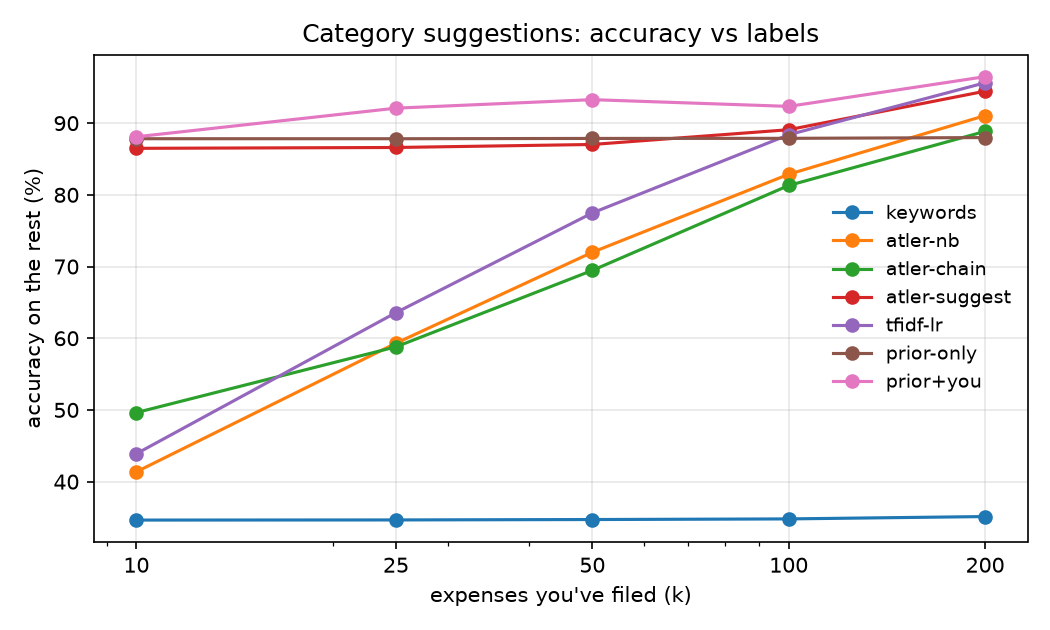
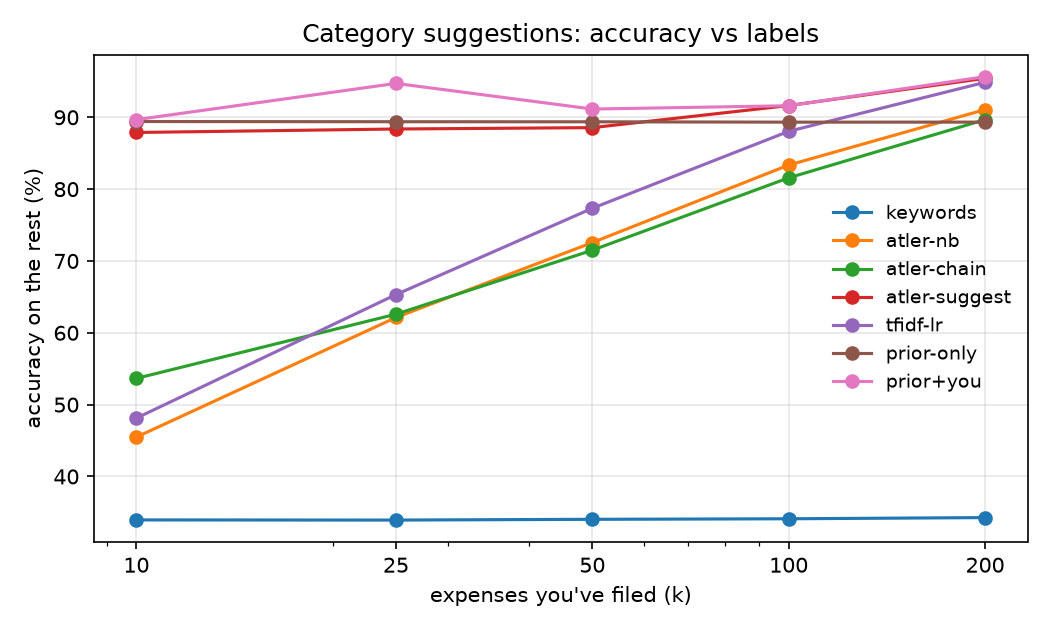
Generator v2 (per-merchant spread); simulate asking sooner and reviewing past jumps
- synth: each merchant has its own spread (steady fares and fees, erratic
  marketplaces); results/ re-measured
- feedback.py: the first 3 months arrive as an imported statement, then the
  review of past jumps (ATLER#32) and live alerts; answer rates 50/70/90%
- README: v2 numbers, and what didn't help (a per-user model with more
  signals; variance-aware gates)

diff --git a/bridge/atler.ts b/bridge/atler.ts
@@ -27,7 +27,7 @@ type Job =
   | { task: 'candidates'; debits: { on: string; description: string; amount: number }[]; today: string }
   | { task: 'suggest'; categories: string[]; filed: { name: string; category: string }[]; test: string[]; prior: boolean }
   | { task: 'priorProbabilities'; texts: string[] }
-  | { task: 'feedback'; payments: { id: string; name: string; amount: number; on: string; categoryId: string | null; anomaly: boolean }[]; answerRate: number; learn: boolean }
+  | { task: 'feedback'; payments: { id: string; name: string; amount: number; on: string; categoryId: string | null; anomaly: boolean }[]; answerRate: number; learn: boolean; reviewFrom?: string }
   | { task: 'features' }
   | { task: 'treeProbability'; x: number[][] }
   | { task: 'unusual'; payments: { id: string; name: string; amount: number; on: string; categoryId: string | null }[] };
@@ -71,7 +71,19 @@ function run(job: Job): unknown {
       const payments = job.payments.map(p => ({ ...p, source: 'statement' }));
       const verdicts: unknown[] = [];
       let bars = fb.learnBars([]);
+      // reviewFrom: everything before it is an imported statement. On that day
+      // you review its biggest past jumps (insights.pastJumps), then go live.
+      let reviewed = !job.reviewFrom;
       return payments.map((p, i) => {
+        if (job.reviewFrom && p.on < job.reviewFrom) return null;
+        if (!reviewed) {
+          reviewed = true;
+          const known = payments.slice(0, i);
+          for (const u of insights.pastJumps(known, p.on, verdicts)) {
+            verdicts.push({ paymentId: u.payment.id, merchant: insights.merchantOf(u.payment), times: u.times, expected: !u.payment.anomaly, at: i });
+          }
+          bars = fb.learnBars(verdicts);
+        }
         const u = insights.unusualness(p, payments.slice(0, i + 1), job.learn ? bars : undefined);
         if (!u) return null;
         if (random() < job.answerRate) {

diff --git a/src/atler_ml/synth.py b/src/atler_ml/synth.py
@@ -1,4 +1,4 @@
-"""Synthetic Indian bank statements with ground truth.
+"""Synthetic Indian bank statements with ground truth (v2: per-merchant spread).
 
 ATLER keeps money on the phone and real statements are private, so there is
 no labelled dataset to learn from. This generator writes statements that look
@@ -60,6 +60,18 @@ EVERYDAY: list[tuple[list[str], str, float]] = [
     (["SRM IST FEES", "SRM INSTITUTE"], "Education", 2500),
     (["XEROX POINT", "SRI LAKSHMI XEROX"], "Education", 40),
 ]
+
+# How much a merchant's amounts vary (sigma of log amount). Fixed fares and
+# fees barely move; marketplaces and train tickets swing a lot. Everything
+# else, 0.45. (Before v2 every merchant used 0.45, which hid the difference
+# between "6x at the metro" and "6x at Amazon".)
+SPREAD = {
+    "CHENNAI METRO RAIL": 0.12, "SRM IST FEES": 0.08, "XEROX POINT": 0.2, "JAVA GREEN CANTEEN": 0.2,
+    "RAPIDO": 0.3, "TNEB": 0.3, "STARBUCKS": 0.25,
+    "AMAZON": 0.8, "FLIPKART": 0.8, "MYNTRA": 0.7, "DECATHLON": 0.7, "IRCTC": 0.75, "DMART": 0.6,
+    "BIGBASKET": 0.6, "INDIAN OIL": 0.5, "UBER": 0.5,
+}
+DEFAULT_SPREAD = 0.45
 
 # Subscriptions: (spellings, category, price in rupees, cycle in days or "month"/"year").
 SUBSCRIPTIONS: list[tuple[list[str], str, float, int | str]] = [
@@ -155,8 +167,8 @@ def narration(rng: random.Random, spelling: str, kind: str) -> str:
     raise ValueError(kind)
 
 
-def _amount(rng: random.Random, typical: float) -> int:
-    rupees = typical * rng.lognormvariate(0, 0.45)
+def _amount(rng: random.Random, typical: float, spread: float = DEFAULT_SPREAD) -> int:
+    rupees = typical * rng.lognormvariate(0, spread)
     rupees = round(rupees) if rng.random() < 0.7 else round(rupees, 2)
     return max(100, int(round(rupees * 100)))
 
@@ -216,7 +228,9 @@ def _rent(u: User) -> None:
 
 def _everyday(u: User) -> None:
     rng = u.rng
-    favourites = rng.sample(EVERYDAY, rng.randint(12, 22)) + _locals(rng)
+    locals_ = _locals(rng)
+    local_spread = {spellings[0]: rng.uniform(0.2, 0.5) for spellings, _, _ in locals_}
+    favourites = rng.sample(EVERYDAY, rng.randint(12, 22)) + locals_
     weights = [rng.paretovariate(1.2) for _ in favourites]  # a few places get most of your money
     friends = [f"{rng.choice(FIRST)} {rng.choice(LAST)}" for _ in range(rng.randint(3, 8))]
     rate = rng.uniform(1.2, 3.5)  # payments per day
@@ -226,12 +240,13 @@ def _everyday(u: User) -> None:
         for _ in range(_poisson(rng, rate * busy)):
             if rng.random() < 0.12:  # splitting a bill with a friend
                 who = rng.choice(friends)
-                u.txns.append(Txn(u.id, on, narration(rng, who, "upi"), _amount(rng, 250), who, "Transfers"))
+                u.txns.append(Txn(u.id, on, narration(rng, who, "upi"), _amount(rng, 250, 0.6), who, "Transfers"))
                 continue
             spellings, category, typical = rng.choices(favourites, weights)[0]
             spelling = rng.choice(spellings)
             kind = "upi" if rng.random() < 0.75 else "pos"
-            u.txns.append(Txn(u.id, on, narration(rng, spelling, kind), _amount(rng, typical), spellings[0], category))
+            spread = SPREAD.get(spellings[0], local_spread.get(spellings[0], DEFAULT_SPREAD))
+            u.txns.append(Txn(u.id, on, narration(rng, spelling, kind), _amount(rng, typical, spread), spellings[0], category))
 
 
 def _locals(rng: random.Random) -> list[tuple[list[str], str, float]]:

diff --git a/src/atler_ml/feedback.py b/src/atler_ml/feedback.py
@@ -17,15 +17,15 @@ import pandas as pd
 from . import bridge, recurring, synth
 
 
-def simulate(df: pd.DataFrame, names: pd.Series, answer_rate: float, learn: bool) -> pd.Series:
+def simulate(df: pd.DataFrame, names: pd.Series, answer_rate: float, learn: bool, review_from: str | None = None) -> pd.Series:
     users = sorted(df["user"].unique())
     def payments(r: pd.DataFrame) -> list[dict]:
         shown_as = names[r.index].fillna(r["description"])
         return [{"id": i, "name": n, "amount": int(a), "on": d.strftime("%Y-%m-%d"), "categoryId": c, "anomaly": bool(x)}
                 for i, n, a, d, c, x in zip(r["id"], shown_as, r["amount"], r["on"], r["category"], r["anomaly"])]
 
-    jobs = [{"task": "feedback", "answerRate": answer_rate, "learn": learn, "payments": payments(df[df["user"] == u])}
-            for u in users]
+    jobs = [{"task": "feedback", "answerRate": answer_rate, "learn": learn, "payments": payments(df[df["user"] == u]),
+             **({"reviewFrom": review_from} if review_from else {})} for u in users]
     return pd.Series([t for out in bridge.run(jobs) for t in out], index=df.index, dtype=float)
 
 
@@ -34,18 +34,22 @@ def main() -> None:
     for seed in [int(s) for s in os.environ.get("SEEDS", "7,11").split(",")]:
         df = synth.generate(users=40, seed=seed)
         names, _ = recurring.atler(df)
-        for label, rate, learn in (("no answers (2x)", 0.0, False), ("answers 30% of alerts", 0.3, True),
-                                   ("answers 70% of alerts", 0.7, True)):
-            shown = simulate(df, names, rate, learn).notna()
-            q = df["on"].dt.quarter.map({4: "Q1", 1: "Q2", 2: "Q3", 3: "Q4"})  # the year starts in October
-            for quarter in ("Q1", "Q2", "Q3", "Q4"):
-                m = q == quarter
-                rows.append({"seed": seed, "user": label, "quarter": quarter,
-                             "precision": df.loc[m & shown, "anomaly"].mean(),
+        # The first 3 months arrive as an imported statement; alerts are live after that.
+        start = df["on"].min() + pd.Timedelta(days=92)
+        live = df["on"] >= start
+        quarter = ((df["on"] - df["on"].min()).dt.days // 92 + 1).clip(upper=4).map(lambda q: f"Q{q}")
+        for label, rate, learn, review in (("no answers (2x)", 0.0, False, False),
+                                           ("answers 50%", 0.5, True, False), ("answers 50% + review", 0.5, True, True),
+                                           ("answers 70%", 0.7, True, False), ("answers 70% + review", 0.7, True, True),
+                                           ("answers 90%", 0.9, True, False), ("answers 90% + review", 0.9, True, True)):
+            shown = simulate(df, names, rate, learn, start.strftime("%Y-%m-%d") if review else None).notna() & live
+            for q in ("Q2", "Q3", "Q4"):
+                m = quarter == q
+                rows.append({"seed": seed, "user": label, "quarter": q, "precision": df.loc[m & shown, "anomaly"].mean(),
                              "recall": (m & shown & df["anomaly"]).sum() / (m & df["anomaly"]).sum(),
                              "alerts": (m & shown).sum() / df["user"].nunique()})
     out = pd.DataFrame(rows).groupby(["user", "quarter"], sort=False)[["precision", "recall", "alerts"]].mean()
-    print(out.round(3).to_string())
+    print(out.round(3).unstack("quarter").to_string())
 
 
 if __name__ == "__main__":

diff --git a/README.md b/README.md
@@ -19,83 +19,75 @@ TypeScript core and runs it under Node, so the numbers describe the shipped code
 
 ## Results
 
-The tables show 40 synthetic users, one year each (35,371 transactions, seed 7). Full tables are in
-[`results/RESULTS.md`](results/RESULTS.md). "Before" means ATLER at `c05ac87`; "after" means ATLER with #28–#30,
-which came out of this repo. The shipped models were trained on seeds 101–103 and never saw these statements.
+The tables show 40 synthetic users, one year each (seed 7). Full tables are in [`results/RESULTS.md`](results/RESULTS.md).
+"ATLER" here means current `main`, including the changes that came out of this repo
+([#28](https://github.com/KunalGITID/ATLER/pull/28)–[#31](https://github.com/KunalGITID/ATLER/pull/31) and
+[#32](https://github.com/KunalGITID/ATLER/pull/32)). The shipped models were trained on seeds 101–103 and never saw
+these statements.
+
+**Generator v2 (October 2026).** Each merchant now has its own spread: metro fares and fees barely move, while Amazon
+and IRCTC swing a lot. Before v2, every merchant varied by the same amount, which made unusual spending look easier
+to catch than it is. The before/after numbers in ATLER #28–#31 were measured on v1.
 
 ![accuracy vs number of filed expenses](results/categorise.png)
 
-**1. Category suggestions** ([ATLER#30](https://github.com/KunalGITID/ATLER/pull/30)). Every user files their
-first *k* expenses, and the model guesses the rest.
+**1. Category suggestions** ([#30](https://github.com/KunalGITID/ATLER/pull/30)). Every user files their first *k*
+expenses, and the model guesses the rest.
 
 | accuracy (%) | k = 10 | 25 | 50 | 100 | 200 |
 |---|---:|---:|---:|---:|---:|
-| ATLER before (Naive Bayes, else keywords) | 49.6 | 58.8 | 69.5 | 81.3 | 88.8 |
-| **ATLER after (shipped prior + your Naive Bayes)** | **86.5** | **86.6** | **87.0** | **89.1** | **94.5** |
-| TF-IDF + logistic regression, yours only | 43.9 | 63.6 | 77.5 | 88.4 | 95.6 |
-| prior + your own logistic regression (best here) | 88.1 | 92.1 | 93.3 | 92.3 | 96.5 |
+| before #30 (Naive Bayes, else keywords) | 53.7 | 62.6 | 71.5 | 81.6 | 89.7 |
+| **ATLER (shipped prior + your Naive Bayes)** | **87.9** | **88.4** | **88.6** | **91.6** | **95.4** |
+| prior + your own logistic regression (best here) | 89.7 | 94.7 | 91.1 | 91.6 | 95.7 |
 
-- On-phone learning alone needs about 100 labels to become useful, and most people give up before filing 100 expenses.
-- A prior trained on other people's statements works from the first expense, because Swiggy is Swiggy for
-  everyone. It only keeps features seen in 3+ users' statements. Character n-grams cope with `SWIGGY*BLR`,
-  `BUNDLTECHNOLOGIES` and similar mangled names.
-- Your filing gets weight *k* / (*k* + 150). That was tuned on a training seed; with 20, accuracy dipped to 81%
-  at 25–50 expenses because Naive Bayes on a handful of labels was trusted too early.
-- What ATLER ships is 1,000 features, 81 KB of JSON (15.7 KB gzipped). Going from 8,000 features down to 1,000
-  costs no accuracy; going down to 300 costs 17 points.
+The prior is trained on other people's statements, so it works from the first expense; Swiggy is Swiggy for
+everyone. It only keeps character n-gram features seen in 3+ users' statements. Your filing gets weight
+*k* / (*k* + 150). It ships as 1,000 features (81 KB of JSON, 15.7 KB gzipped).
 
-**2. Subscription finder** ([ATLER#29](https://github.com/KunalGITID/ATLER/pull/29)), over 154 real recurring series
+**2. Subscription finder** ([#29](https://github.com/KunalGITID/ATLER/pull/29)), over 154 real recurring series
 
 | | precision | recall | F1 | cycle correct |
 |---|---:|---:|---:|---:|
-| ATLER before (rhythm rules) | 76.6 | 85.1 | 80.6 | 96.9 |
-| rules + the name fix only | 78.5 | 94.8 | 85.9 | 99.3 |
-| **ATLER after (name fix + shipped tree model)** | **96.1** | **96.1** | **96.1** | **100** |
+| **ATLER (name fix + shipped tree model)** | **96.7** | **96.1** | **96.4** | **100** |
+| the same model, trained here out-of-fold | 94.3 | 96.8 | 95.5 | 100 |
 
-- **The name fix.** `merchantName` kept bank words (`DR`, `Paid`, `PUR`), so `UPI/DR/…/ADITYA NAIR` and
-  `Paid to ADITYA NAIR` counted as two different payees. A monthly rent was cut into pieces with broken gaps.
-- **The model.** Gradient boosting (80 trees, depth 3) over 11 *regularity* features: gaps, steady amounts, and
-  day-of-month spread. Price and merchant are deliberately not features. ATLER's rhythm table still names the
-  cycle. The features are computed by ATLER's own TypeScript through the bridge, so training and the app share
-  one implementation. The exported trees (30 KB) match scikit-learn to within 1e-7.
-- On seeds 11 and 23, F1 went from 85 to 98 and from 85 to 98.
+On v1, the rules ATLER had before #29 scored F1 81–85. `merchantName` kept bank words (`DR`, `Paid`, `PUR`), which
+split one payee into several. The model is 80 depth-3 trees over 11 regularity features, with no price and no
+merchant, shipped as 30 KB of JSON.
 
-**3. Unusual spending** (277 planted anomalies, 4 to 10 times a merchant's usual amount)
+**3. Unusual spending** (planted anomalies, 4 to 10 times a merchant's typical amount)
 
-| | precision | recall | PR-AUC | alerts per user per year |
-|---|---:|---:|---:|---:|
-| ATLER at `c05ac87` (by category) | 10.4 | 84.5 | 14.4 | 56 |
-| ATLER after #28 (same merchant) and #29 (name fix) | 16.1 | 70.8 | **65.6** | 30 |
-| Isolation Forest | 45.0 | 39.0 | 43.4 | 6 |
+With no answers, ATLER flags spends at least 2× your usual at the same place
+([#28](https://github.com/KunalGITID/ATLER/pull/28)). That is 34 alerts per user per year, and only 16% are real.
+A higher fixed bar doesn't rescue it on v2: 4× gives 48% precision, and fitting it to the planted range would be
+circular anyway. So ATLER learns the bar from **your answers**
+([#31](https://github.com/KunalGITID/ATLER/pull/31)). It asks "Expected?" on the alert card and right after you add
+an unusual expense, and offers a one-off review of your 5 biggest past jumps
+([#32](https://github.com/KunalGITID/ATLER/pull/32)).
 
-#28 stopped comparing against the category: alerts judged against a category were only 7% real, because a big
-DMart shop looks "unusual" next to small corner-shop runs. The name fix in #29 made merchant groups cleaner,
-which raised ranking quality again (PR-AUC 45 → 66). But at its 2× bar, ATLER still raises 30 alerts per user
-per year and 5 in 6 are false. Precision depends almost entirely on that bar:
+`feedback.py` runs ATLER's own `unusualness`, `learnBars` and `pastJumps` with simulated users who answer a share of
+alerts truthfully. The first 3 months arrive as an imported statement; alerts are live after that. Seeds 7 and 11:
 
-| alert when at least | 2× | 2.5× | 3× | 3.5× | 4× |
+| precision | Q2 | Q3 | Q4 | recall Q4 | alerts per user, Q4 |
 |---|---:|---:|---:|---:|---:|
-| precision | 16 | 27 | 47 | 68 | **83** |
-| recall | 71 | 70 | 68 | 66 | 62 |
-| alerts per user per year | 30 | 18 | 10 | 7 | 5 |
+| no answers (2×) | 15% | 14% | 19% | 83% | 9.4 |
+| answers 50% of alerts | 20% | 33% | 53% | 54% | 2.2 |
+| answers 50% + review of past jumps | 38% | 40% | 60% | 50% | 1.8 |
+| answers 70% of alerts | 38% | 60% | 66% | 41% | 1.3 |
+| **answers 70% + review of past jumps** | **45%** | **65%** | **71%** | 44% | 1.3 |
+| answers 90% + review of past jumps | 45% | 65% | 72% | 43% | 1.3 |
 
-That table is *not* a reason to ship 4×. The anomalies are planted at 4–10×, so a 4× bar fits the generator by
-construction. Instead, ATLER now **learns the bar from your answers**
-([ATLER#31](https://github.com/KunalGITID/ATLER/pull/31)). The alert card asks "Expected" or "Not expected", and
-your bar moves just above the jumps you called expected, halfway to the next one you called real. `feedback.py`
-simulates users answering truthfully, running ATLER's own `unusualness` and `learnBars` (seeds 7 and 11, year starting
-in October):
+The biggest lever is how many alerts get answered, which is why ATLER asks right after you add a spend. The review
+lifts the first months. The cost is recall: fewer alerts, and some real ones are no longer shown.
 
-| precision | Q1 | Q2 | Q3 | Q4 |
-|---|---:|---:|---:|---:|
-| no answers | 13% | 17% | 17% | 17% |
-| answers 30% of alerts | 14% | 20% | 33% | 54% |
-| **answers 70% of alerts** | 19% | 48% | **78%** | **81%** |
-
-Recall for the 70% answerer is 63–67% in Q3–Q4, and alerts drop from about 10 to about 1.5 per user per quarter. The
-rule was picked on a training seed from four candidates: counting precision per threshold reached 61% by Q4, and a 1-D
-logistic fit 56–60%. It learns only from the answers, never from how the anomalies were planted. The simulated answers
-are perfectly truthful, though, so real users will do worse.
+**What didn't help (on this data), so it isn't in ATLER:**
+- **A per-user model with more signals** (z-score against the place's own spread, history length, share of the
+  month's spending). Real anomalies are rare, so after a year most users still don't have the dozen-plus answers
+  with 3+ of each kind needed to fit even a 4-feature logistic regression. It never switched on.
+- **Variance-aware gates** (Iglewicz–Hoaglin modified z ≥ 3.5, or z ≥ 2 on top of the learned bar). No better
+  frontier than plain "times your usual" here, because the anomalies are *planted* as multiples of a place's typical
+  amount. Real anomalies may behave differently; only real answers can show that (see **Next**).
+- Learning rules for the bar: per-threshold precision counting and a 1-D logistic fit both lost to the midpoint rule.
 
 ## Caveats
 
@@ -107,7 +99,9 @@ are perfectly truthful, though, so real users will do worse.
   - The category prior only knows the brands in the generator, plus generic words like *medicals* and *stores*.
   - The anomaly numbers depend on how much everyday amounts vary.
 - The anomalies are *planted*, so "recall" means recall of this one kind of anomaly.
-- The tables use seed 7. The subscription and suggestion results were re-checked on seeds 11 and 23.
+- The tables use seed 7. The subscription and suggestion results were re-checked on seeds 11 and 23, and the
+  feedback simulation uses seeds 7 and 11.
+- The simulated users answer perfectly truthfully. Real ones won't.
 
 ## Run it
 
@@ -122,7 +116,7 @@ uv run python -m atler_ml.bench          # full run, about 2 min; writes results
 uv run python -m atler_ml.bench --quick  # 8 users, as in CI
 uv run python -m atler_ml.export subscriptions   # retrain + write ATLER's subscriptionModel.json
 uv run python -m atler_ml.export category-prior  # retrain + write ATLER's categoryPrior.json
-uv run python -m atler_ml.feedback               # answering alerts, by quarter (needs ATLER#31)
+uv run python -m atler_ml.feedback               # answering alerts, by quarter
 ```
 
 ## Layout
@@ -139,10 +133,10 @@ src/atler_ml/bench.py    runs everything, writes results/RESULTS.md
 
 ## Next
 
-- Real precision from real answers: ATLER's You screen now shows "N of the M you answered were really unusual".
-  Collect a few of those (with consent) to check the simulation against reality.
-- Variance-aware scoring: compare against each merchant's own spread (MAD of log amounts) instead of one
-  multiple for every merchant. This matters once real data has steady and erratic merchants.
+- **Real answers, opt-in.** ATLER's You screen shows "N of the M you answered were really unusual". An opt-in,
+  anonymous share of (times your usual, history length, the place's spread, answer) would check this simulation
+  against reality, re-test the variance-aware ideas that didn't help on synthetic data, and give new users a
+  starting bar learned from real people.
 - Forecasting: compare ATLER's 6-month mean against seasonal-naive and ETS, with backtested interval coverage.
 - Results across 5 seeds, with confidence intervals.
 - Model card for the shipped category prior.

diff --git a/results/RESULTS.md b/results/RESULTS.md
@@ -1,8 +1,8 @@
 # Results
 
-Generated by `python -m atler_ml.bench` (seed 7) in 161 s.
-Data: 35,371 synthetic transactions from 40 users over one year, 170 recurring series,
-277 planted anomalies. ATLER methods are ATLER's own TypeScript, run through `bridge/atler.ts`.
+Generated by `python -m atler_ml.bench` (seed 7) in 173 s.
+Data: 39,872 synthetic transactions from 40 users over one year, 170 recurring series,
+320 planted anomalies. ATLER methods are ATLER's own TypeScript, run through `bridge/atler.ts`.
 
 ## 1. Category suggestions
 
@@ -10,21 +10,21 @@ Accuracy (%) on every later expense after you've filed the first k yourself:
 
 |   k |   keywords |   atler-nb |   atler-chain |   atler-suggest |   tfidf-lr |   prior-only |   prior+you |
 |----:|-----------:|-----------:|--------------:|----------------:|-----------:|-------------:|------------:|
-|  10 |       34.6 |       41.4 |          49.6 |            86.5 |       43.9 |         87.8 |        88.1 |
-|  25 |       34.7 |       59.3 |          58.8 |            86.6 |       63.6 |         87.8 |        92.1 |
-|  50 |       34.7 |       72   |          69.5 |            87   |       77.5 |         87.9 |        93.3 |
-| 100 |       34.8 |       82.9 |          81.3 |            89.1 |       88.4 |         87.9 |        92.3 |
-| 200 |       35.1 |       91.1 |          88.8 |            94.5 |       95.6 |         88   |        96.5 |
+|  10 |       34   |       45.5 |          53.7 |            87.9 |       48.1 |         89.4 |        89.7 |
+|  25 |       33.9 |       62.1 |          62.6 |            88.4 |       65.3 |         89.4 |        94.7 |
+|  50 |       34   |       72.6 |          71.5 |            88.6 |       77.3 |         89.4 |        91.1 |
+| 100 |       34.1 |       83.4 |          81.6 |            91.6 |       88   |         89.3 |        91.6 |
+| 200 |       34.3 |       91.1 |          89.7 |            95.4 |       94.9 |         89.3 |        95.7 |
 
 Macro-F1 (%), which weights rare categories the same as common ones:
 
 |   k |   keywords |   atler-nb |   atler-chain |   atler-suggest |   tfidf-lr |   prior-only |   prior+you |
 |----:|-----------:|-----------:|--------------:|----------------:|-----------:|-------------:|------------:|
-|  10 |       52.3 |       39   |          64.4 |            91.3 |       39.7 |         90.1 |        90.3 |
-|  25 |       52.3 |       56.7 |          72.8 |            91.6 |       60.5 |         90.1 |        93.4 |
-|  50 |       52.4 |       67.4 |          80.6 |            92.5 |       73.9 |         90.1 |        93.1 |
-| 100 |       52.5 |       78.2 |          87.9 |            94.3 |       85.4 |         90.1 |        90.1 |
-| 200 |       52.6 |       88.2 |          92.6 |            96.9 |       93.7 |         90.2 |        94.8 |
+|  10 |       53.3 |       41.1 |          68.3 |            92.8 |       40.6 |         91.5 |        91.7 |
+|  25 |       53.3 |       58.4 |          75.3 |            93.3 |       60.8 |         91.4 |        95.4 |
+|  50 |       53.3 |       67.5 |          81.3 |            93.6 |       72.8 |         91.4 |        89.9 |
+| 100 |       53.3 |       79.3 |          88.1 |            95.3 |       85   |         91.4 |        89.2 |
+| 200 |       53.5 |       87.3 |          93   |            96.9 |       92.7 |         91.4 |        93.8 |
 
 ![accuracy vs k](categorise.png)
 
@@ -34,23 +34,23 @@ Over 154 real recurring series (3+ charges, or 2+ for yearly plans):
 
 | method   |   precision |   recall |   f1 |   cycle_accuracy |   detections |   false_positives |
 |:---------|------------:|---------:|-----:|-----------------:|-------------:|------------------:|
-| atler    |        96.1 |     96.1 | 96.1 |              100 |          154 |                 6 |
-| gbm      |        94.9 |     97.4 | 96.2 |              100 |          158 |                 8 |
+| atler    |        96.7 |     96.1 | 96.4 |              100 |          153 |                 5 |
+| gbm      |        94.3 |     96.8 | 95.5 |              100 |          158 |                 9 |
 
 ## 3. Unusual spending
 
 | method   |   precision |   recall |   f1 |   pr_auc |   flagged |
 |:---------|------------:|---------:|-----:|---------:|----------:|
-| atler    |        16.1 |     70.8 | 26.2 |     65.6 |      1219 |
-| robust-z |        20.4 |     67.5 | 31.3 |     16   |       918 |
-| iforest  |        45   |     39   | 41.8 |     43.4 |       240 |
+| atler    |        16.1 |     68.4 | 26   |     50.4 |      1364 |
+| robust-z |        14.2 |     66.6 | 23.4 |     14.5 |      1497 |
+| iforest  |        51.2 |     47.2 | 49.1 |     49.3 |       295 |
 
 ATLER's alerts with a higher "times your usual" bar (it uses 2x):
 
 | at least   |   precision |   recall |   alerts per user per year |
 |:-----------|------------:|---------:|---------------------------:|
-| 2x         |        16.1 |     70.8 |                       30.5 |
-| 2.5x       |        27.1 |     69.7 |                       17.8 |
-| 3x         |        47.1 |     68.2 |                       10   |
-| 3.5x       |        68.2 |     65.7 |                        6.7 |
-| 4x         |        82.6 |     61.7 |                        5.2 |
+| 2x         |        16.1 |     68.4 |                       34.1 |
+| 2.5x       |        21.8 |     67.5 |                       24.8 |
+| 3x         |        29.7 |     65.9 |                       17.8 |
+| 3.5x       |        39.6 |     63.1 |                       12.8 |
+| 4x         |        48.1 |     59.7 |                        9.9 |
